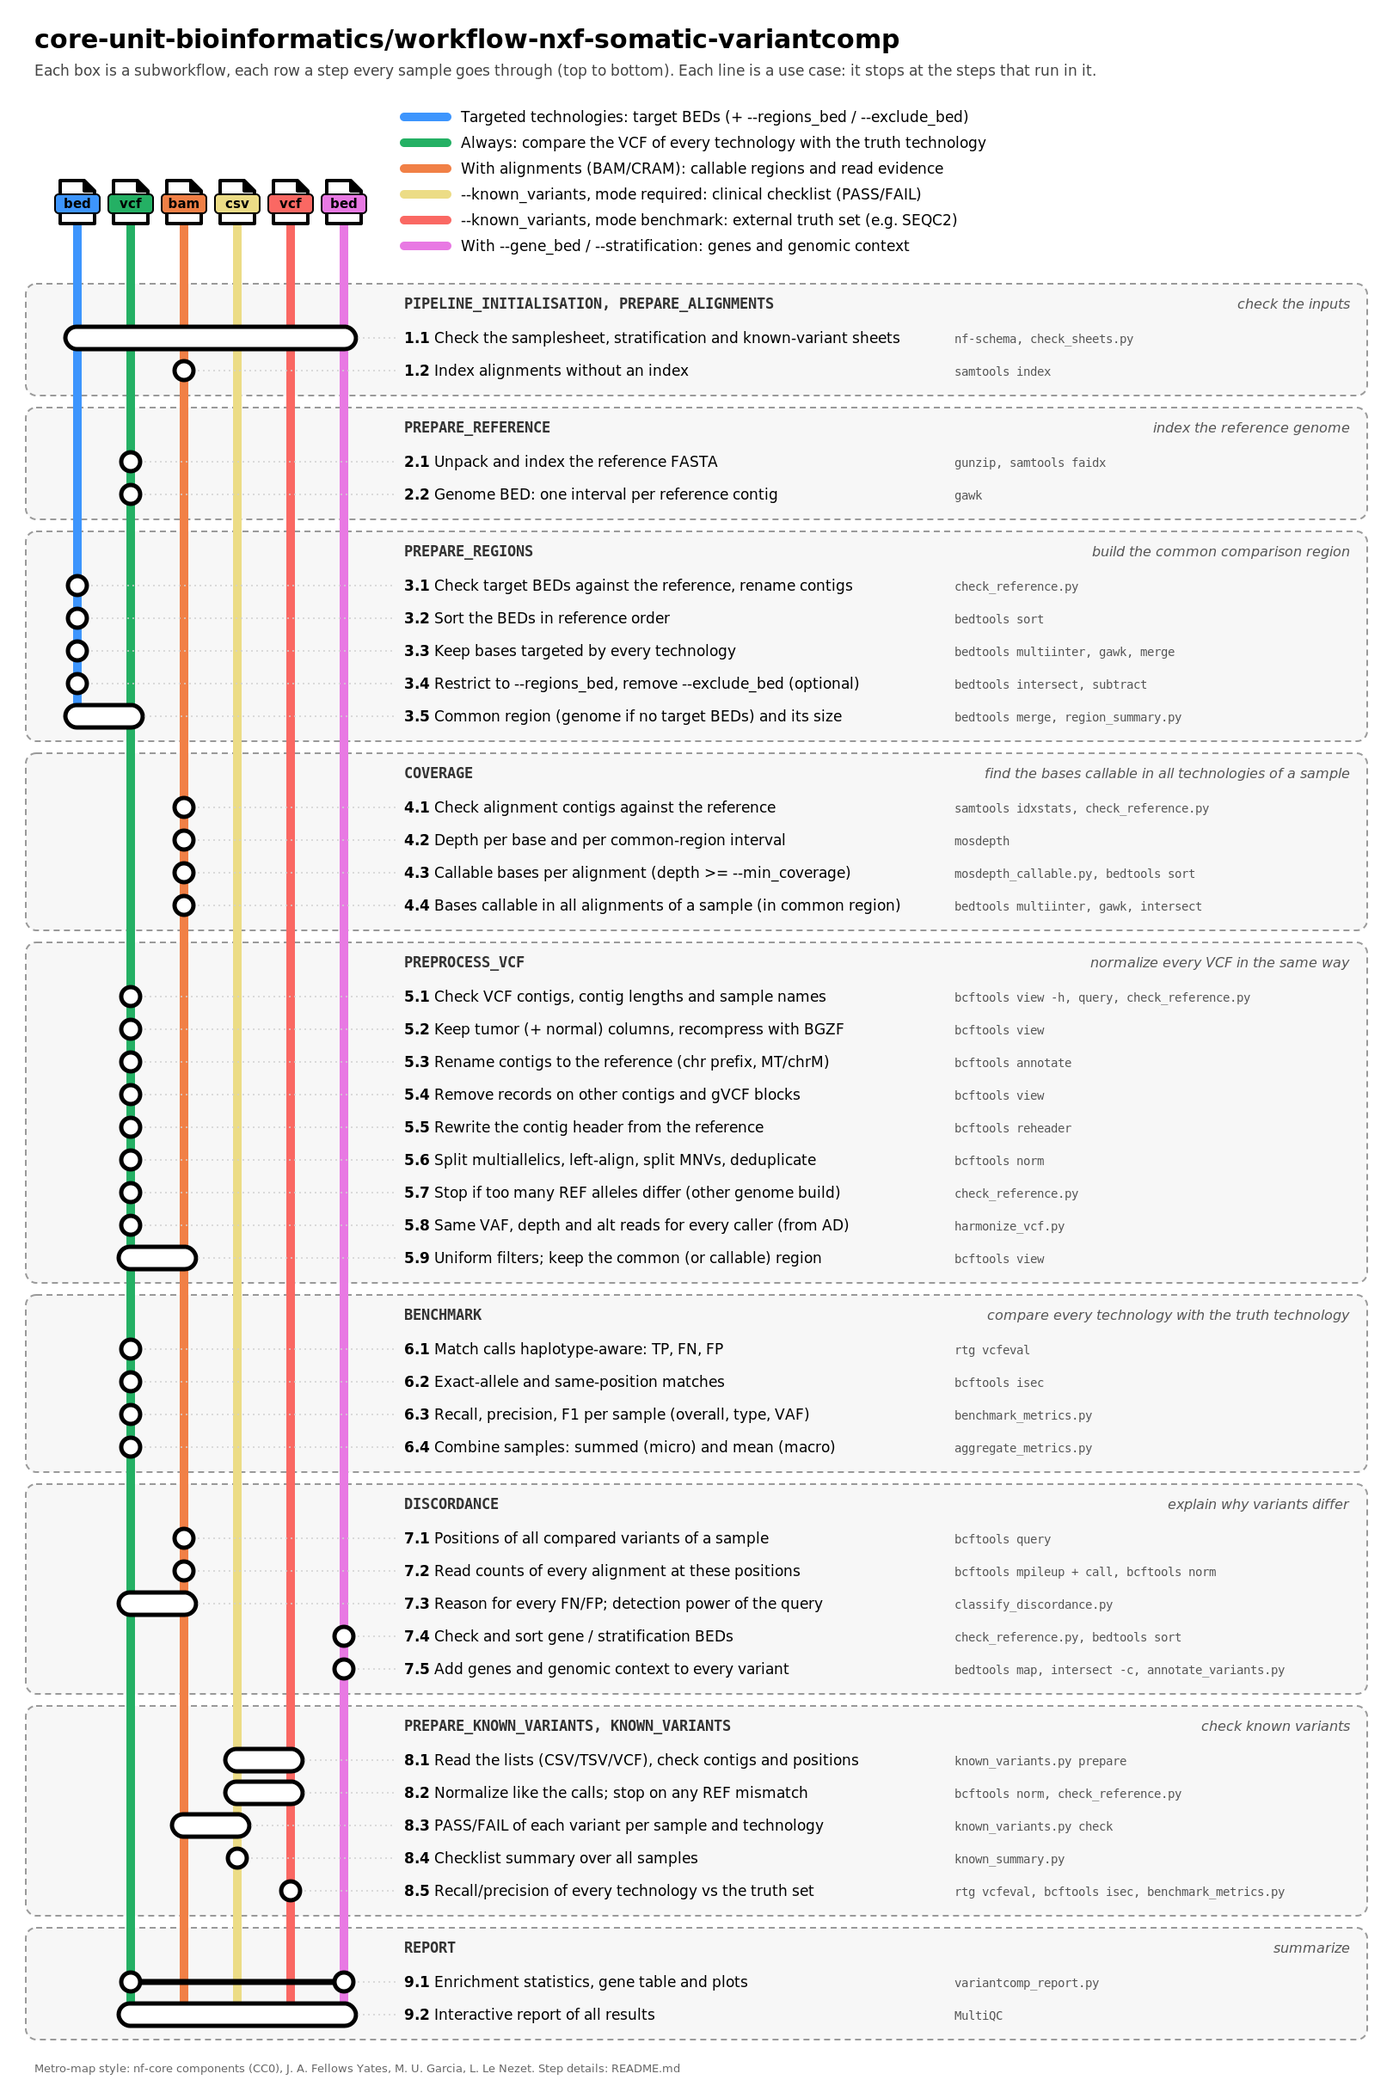
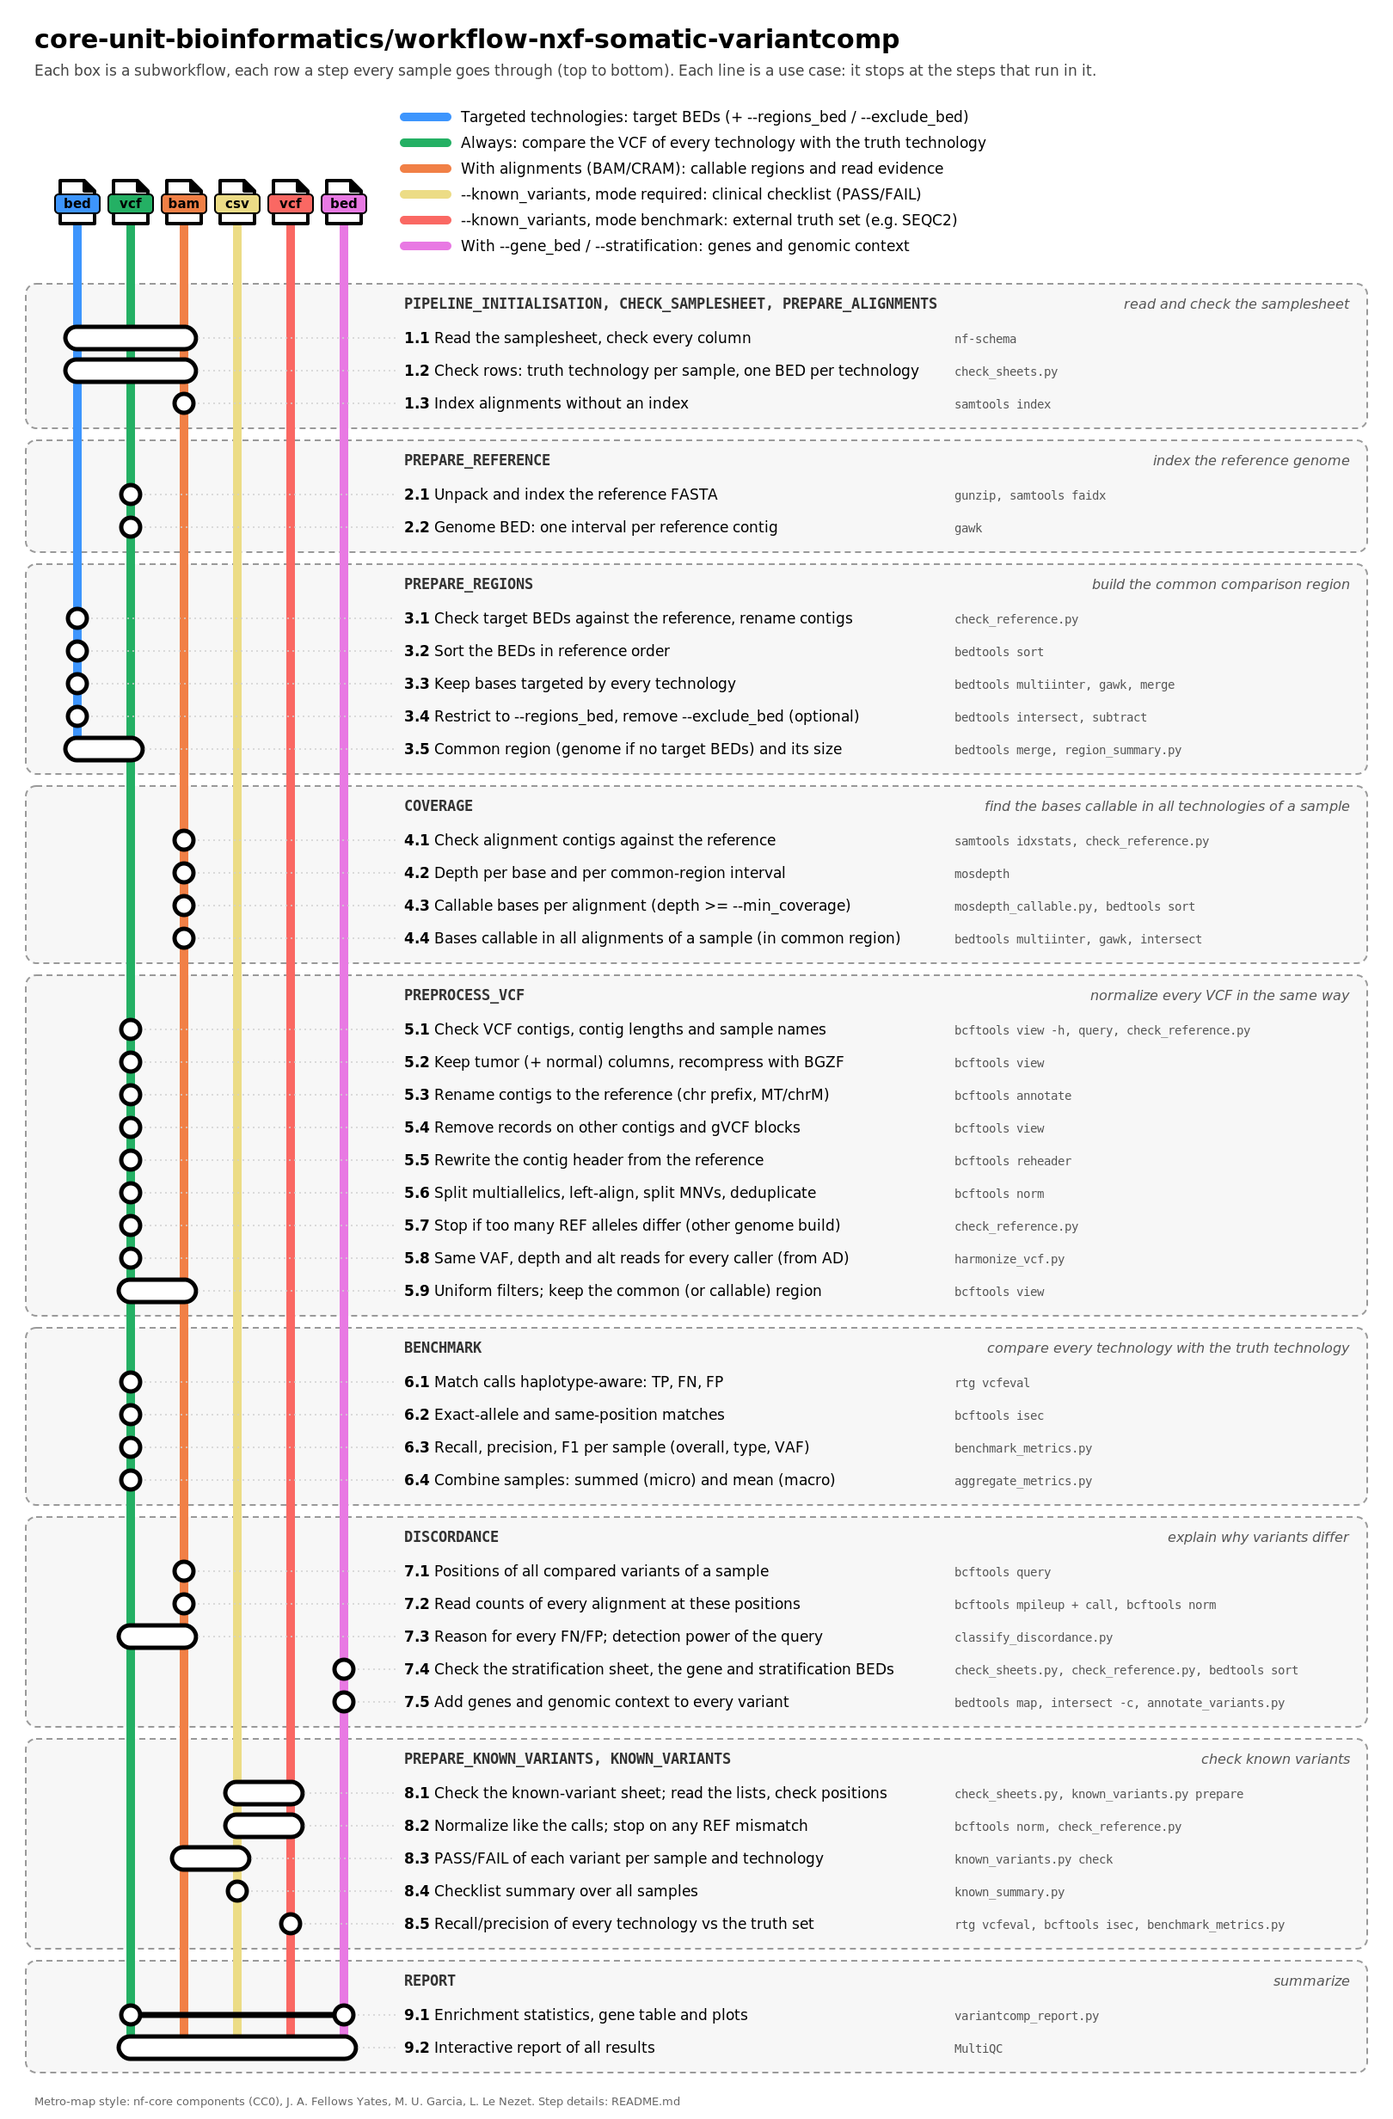
Document where the sheets are checked (D22)

diff --git a/scripts/make_metro_map.py b/scripts/make_metro_map.py
@@ -42,10 +42,11 @@ ALL = list(LINES)
 # subworkflow boxes: (subworkflow name(s), purpose, steps)
 # step: (number, what happens, tools, lines that run this step)
 BANDS = [
-    ("PIPELINE_INITIALISATION, PREPARE_ALIGNMENTS", "check the inputs", [
-        ("1.1", "Check the samplesheet, stratification and known-variant sheets",
-         "nf-schema, check_sheets.py", ALL),
-        ("1.2", "Index alignments without an index", "samtools index", ["bam"]),
+    ("PIPELINE_INITIALISATION, CHECK_SAMPLESHEET, PREPARE_ALIGNMENTS", "read and check the samplesheet", [
+        ("1.1", "Read the samplesheet, check every column", "nf-schema", ["regions", "core", "bam"]),
+        ("1.2", "Check rows: truth technology per sample, one BED per technology",
+         "check_sheets.py", ["regions", "core", "bam"]),
+        ("1.3", "Index alignments without an index", "samtools index", ["bam"]),
     ]),
     ("PREPARE_REFERENCE", "index the reference genome", [
         ("2.1", "Unpack and index the reference FASTA", "gunzip, samtools faidx", ["core"]),
@@ -92,13 +93,14 @@ BANDS = [
          "bcftools mpileup + call, bcftools norm", ["bam"]),
         ("7.3", "Reason for every FN/FP; detection power of the query",
          "classify_discordance.py", ["core", "bam"]),
-        ("7.4", "Check and sort gene / stratification BEDs", "check_reference.py, bedtools sort", ["annot"]),
+        ("7.4", "Check the stratification sheet, the gene and stratification BEDs",
+         "check_sheets.py, check_reference.py, bedtools sort", ["annot"]),
         ("7.5", "Add genes and genomic context to every variant",
          "bedtools map, intersect -c, annotate_variants.py", ["annot"]),
     ]),
     ("PREPARE_KNOWN_VARIANTS, KNOWN_VARIANTS", "check known variants", [
-        ("8.1", "Read the lists (CSV/TSV/VCF), check contigs and positions",
-         "known_variants.py prepare", ["required", "truthset"]),
+        ("8.1", "Check the known-variant sheet; read the lists, check positions",
+         "check_sheets.py, known_variants.py prepare", ["required", "truthset"]),
         ("8.2", "Normalize like the calls; stop on any REF mismatch",
          "bcftools norm, check_reference.py", ["required", "truthset"]),
         ("8.3", "PASS/FAIL of each variant per sample and technology",
@@ -115,8 +117,9 @@ BANDS = [
 
 # longer explanation of every step for the README table (the map shows the short text)
 DETAILS = {
-    "1.1": "Checks the per-column formats (nf-schema) and the rows across the sheet: one truth technology per sample, one target BED and library type per technology, existing files. All problems are reported at once with line numbers; VCF and alignment indices are looked up next to the files.",
-    "1.2": "Alignments without a `.bai`/`.csi`/`.crai` next to them are indexed once; they are needed for coverage and read evidence.",
+    "1.1": "The samplesheet is read as in the nf-core template: nf-schema checks every column (names, library types, file extensions). Relative paths are resolved against the samplesheet's directory; VCF and alignment indices are looked up next to the files.",
+    "1.2": "Rules across rows, before anything else runs: every sample has the truth technology and another technology, no duplicate rows, one target BED and library type per technology, existing files. All problems are reported at once with line numbers.",
+    "1.3": "Alignments without a `.bai`/`.csi`/`.crai` next to them are indexed once; they are needed for coverage and read evidence.",
     "2.1": "A gzipped FASTA is unpacked and indexed; the `.fai` (contig names and lengths) is the reference every input is checked against.",
     "2.2": "One interval per contig, used as comparison region when no technology has a target BED (WGS only) and to drop records on other contigs.",
     "3.1": "Contig names that differ only by the `chr` prefix or `MT`/`chrM` are renamed, intervals on unknown contigs are dropped and reported; intervals beyond a contig end stop the run (other genome build).",
@@ -144,9 +147,9 @@ DETAILS = {
     "7.1": "All positions of compared variants of a sample are collected, so every alignment is looked at the same sites.",
     "7.2": "Allele counts of every tumor and normal alignment at these positions (MQ >= 20, BQ >= 13), normalized like the calls.",
     "7.3": "Each FN/FP gets a reason from the other technology's view: called but filtered, germline (alt reads in the normal), low coverage, alt reads below the caller's threshold, no alt reads, or absent (no alignment). For truth variants, the binomial detection power of the query gives the power-adjusted recall.",
-    "7.4": "Gene and stratification BEDs (repeats, homopolymers, ...) are checked against the reference and sorted.",
+    "7.4": "The `--stratification` sheet is checked (columns, unique names, existing BEDs); gene and stratification BEDs (repeats, homopolymers, ...) are checked against the reference and sorted.",
     "7.5": "Every compared variant gets its gene(s) and a yes/no per stratification; result: `discordance/variants.annotated.tsv`.",
-    "8.1": "Known variants from CSV, TSV or VCF lists are mapped to reference contigs, positions and alleles checked, and written as a sorted VCF.",
+    "8.1": "The `--known_variants` sheet is checked (columns, unique names, modes, samples of the samplesheet, existing files). Known variants from CSV, TSV or VCF lists are mapped to reference contigs, positions and alleles checked, and written as a sorted VCF.",
     "8.2": "The list is normalized like the calls (split, left-align, atomize); any REF allele that differs from the FASTA stops the run.",
     "8.3": "Required mode: each listed variant must be found in every technology of the sample: PASS, or FAIL as filtered, outside the comparison region or not called (with read evidence if alignments are given).",
     "8.4": "Required mode: one table over all lists, samples and technologies, a warning per failed variant, and optionally a stop (`--fail_on_missing_required`).",

diff --git a/README.md b/README.md
@@ -52,9 +52,10 @@ every step are set in `conf/modules.config`.
 <!-- steps:start (generated: scripts/make_metro_map.py --markdown) -->
 | Step | What happens | Tools | Runs for |
 | --- | --- | --- | --- |
-| **PIPELINE_INITIALISATION, PREPARE_ALIGNMENTS** | _check the inputs_ | | |
-| 1.1 | **Check the samplesheet, stratification and known-variant sheets.** Checks the per-column formats (nf-schema) and the rows across the sheet: one truth technology per sample, one target BED and library type per technology, existing files. All problems are reported at once with line numbers; VCF and alignment indices are looked up next to the files. | `nf-schema, check_sheets.py` | all use cases |
-| 1.2 | **Index alignments without an index.** Alignments without a `.bai`/`.csi`/`.crai` next to them are indexed once; they are needed for coverage and read evidence. | `samtools index` | With alignments (BAM/CRAM) |
+| **PIPELINE_INITIALISATION, CHECK_SAMPLESHEET, PREPARE_ALIGNMENTS** | _read and check the samplesheet_ | | |
+| 1.1 | **Read the samplesheet, check every column.** The samplesheet is read as in the nf-core template: nf-schema checks every column (names, library types, file extensions). Relative paths are resolved against the samplesheet's directory; VCF and alignment indices are looked up next to the files. | `nf-schema` | Targeted technologies, Always, With alignments (BAM/CRAM) |
+| 1.2 | **Check rows: truth technology per sample, one BED per technology.** Rules across rows, before anything else runs: every sample has the truth technology and another technology, no duplicate rows, one target BED and library type per technology, existing files. All problems are reported at once with line numbers. | `check_sheets.py` | Targeted technologies, Always, With alignments (BAM/CRAM) |
+| 1.3 | **Index alignments without an index.** Alignments without a `.bai`/`.csi`/`.crai` next to them are indexed once; they are needed for coverage and read evidence. | `samtools index` | With alignments (BAM/CRAM) |
 | **PREPARE_REFERENCE** | _index the reference genome_ | | |
 | 2.1 | **Unpack and index the reference FASTA.** A gzipped FASTA is unpacked and indexed; the `.fai` (contig names and lengths) is the reference every input is checked against. | `gunzip, samtools faidx` | Always |
 | 2.2 | **Genome BED: one interval per reference contig.** One interval per contig, used as comparison region when no technology has a target BED (WGS only) and to drop records on other contigs. | `gawk` | Always |
@@ -88,10 +89,10 @@ every step are set in `conf/modules.config`.
 | 7.1 | **Positions of all compared variants of a sample.** All positions of compared variants of a sample are collected, so every alignment is looked at the same sites. | `bcftools query` | With alignments (BAM/CRAM) |
 | 7.2 | **Read counts of every alignment at these positions.** Allele counts of every tumor and normal alignment at these positions (MQ >= 20, BQ >= 13), normalized like the calls. | `bcftools mpileup + call, bcftools norm` | With alignments (BAM/CRAM) |
 | 7.3 | **Reason for every FN/FP; detection power of the query.** Each FN/FP gets a reason from the other technology's view: called but filtered, germline (alt reads in the normal), low coverage, alt reads below the caller's threshold, no alt reads, or absent (no alignment). For truth variants, the binomial detection power of the query gives the power-adjusted recall. | `classify_discordance.py` | Always, With alignments (BAM/CRAM) |
-| 7.4 | **Check and sort gene / stratification BEDs.** Gene and stratification BEDs (repeats, homopolymers, ...) are checked against the reference and sorted. | `check_reference.py, bedtools sort` | With --gene_bed / --stratification |
+| 7.4 | **Check the stratification sheet, the gene and stratification BEDs.** The `--stratification` sheet is checked (columns, unique names, existing BEDs); gene and stratification BEDs (repeats, homopolymers, ...) are checked against the reference and sorted. | `check_sheets.py, check_reference.py, bedtools sort` | With --gene_bed / --stratification |
 | 7.5 | **Add genes and genomic context to every variant.** Every compared variant gets its gene(s) and a yes/no per stratification; result: `discordance/variants.annotated.tsv`. | `bedtools map, intersect -c, annotate_variants.py` | With --gene_bed / --stratification |
 | **PREPARE_KNOWN_VARIANTS, KNOWN_VARIANTS** | _check known variants_ | | |
-| 8.1 | **Read the lists (CSV/TSV/VCF), check contigs and positions.** Known variants from CSV, TSV or VCF lists are mapped to reference contigs, positions and alleles checked, and written as a sorted VCF. | `known_variants.py prepare` | --known_variants, mode required, --known_variants, mode benchmark |
+| 8.1 | **Check the known-variant sheet; read the lists, check positions.** The `--known_variants` sheet is checked (columns, unique names, modes, samples of the samplesheet, existing files). Known variants from CSV, TSV or VCF lists are mapped to reference contigs, positions and alleles checked, and written as a sorted VCF. | `check_sheets.py, known_variants.py prepare` | --known_variants, mode required, --known_variants, mode benchmark |
 | 8.2 | **Normalize like the calls; stop on any REF mismatch.** The list is normalized like the calls (split, left-align, atomize); any REF allele that differs from the FASTA stops the run. | `bcftools norm, check_reference.py` | --known_variants, mode required, --known_variants, mode benchmark |
 | 8.3 | **PASS/FAIL of each variant per sample and technology.** Required mode: each listed variant must be found in every technology of the sample: PASS, or FAIL as filtered, outside the comparison region or not called (with read evidence if alignments are given). | `known_variants.py check` | With alignments (BAM/CRAM), --known_variants, mode required |
 | 8.4 | **Checklist summary over all samples.** Required mode: one table over all lists, samples and technologies, a warning per failed variant, and optionally a stop (`--fail_on_missing_required`). | `known_summary.py` | --known_variants, mode required |

diff --git a/docs/pipeline-plan.md b/docs/pipeline-plan.md
@@ -370,6 +370,7 @@ vcf-comp-dev/                                  # workspace (no git)
 | D19 | REF check tool (implementation of D17, 2026-10-08) | REF alleles are checked with `bcftools norm --check-ref x` (its log is emitted by the patched nf-core module and evaluated by `check_reference.py ref-alleles`), not with `bcftools +fixref`: `+fixref` only handles biallelic SNVs. |
 | D20 | Position-only match (implementation, 2026-10-08) | The `match`/`position` stratum counts positions: `bcftools isec -c all` still lists an extra allele at a shared position separately, its flags are combined per position. |
 | D21 | Missing VAF (implementation of D16, 2026-10-08) | Every tumor record needs a VAF (FORMAT/AD, else FORMAT/AF + FORMAT/DP); otherwise the run stops. The allowed fraction is configurable (`HARMONIZE_VCF` `--max-missing-vaf`, default 0). Records with AD 0,0 (no reads) have an undefined VAF (`zero_depth`, counted and warned, not an error); `FORMAT/AF = nan` counts as missing AF. Both occur in the SEQC2 MuTect2 3.8 VCFs. |
+| D22 | Sheet reading (user, 2026-10-13) | The samplesheet is read as in the nf-core template (`samplesheetToList` in `PIPELINE_INITIALISATION`, columns checked by nf-schema); the checks across rows run in `CHECK_SAMPLESHEET` (`check_sheets.py`) at the start of `VARIANTCOMP`. `--stratification` and `--known_variants` are plain file parameters, checked by `check_sheets.py` in the subworkflow that uses them (`DISCORDANCE`, `PREPARE_KNOWN_VARIANTS`). |
 | – | Open (2026-10-08) | The discordance class `outside_callable` can't occur, because both technologies of a sample share the comparison region; such calls are `present_but_filtered`. To discuss: drop the class or define it differently (e.g. call outside the *query* technology's own callable region). |
 | D13 | Callers (implementation, 2026-10-08) | No caller profiles are needed (D10): the `caller` samplesheet column is informational. |
 | D11 | Normalization order (implementation, 2026-10-07) | Records on non-reference contigs are dropped before the header is rewritten from the `.fai`. Records with a symbolic ALT only are dropped before `norm`, and remaining symbolic alleles of split records are dropped during harmonization. See CLAUDE.md for the full order. |

diff --git a/docs/usage.md b/docs/usage.md
@@ -45,7 +45,10 @@ P01,panel,amplicon,P01_T,P01_N,dragen-4.4.4,vcf/P01_panel.hard-filtered.vcf.gz,n
 | BAM | `<bam>.bai`, `<bam>.csi`, `<name>.bai` (`x.bam` → `x.bai`) | created with `samtools index` |
 | CRAM | `<cram>.crai`, `<name>.crai` | created with `samtools index` |
 
-Rules (checked by `bin/check_sheets.py`; all problems are reported at once):
+The samplesheet is read as in the nf-core template: nf-schema checks every column
+(`assets/schema_input.json`) when the pipeline starts. The rules across rows are then
+checked by `bin/check_sheets.py` (module `CHECK_SAMPLESHEET`, first step of the workflow;
+all problems are reported at once, nothing else starts before it passed):
 
 - Empty optional fields are left empty or written as `n/a`.
 - Relative paths are resolved against the directory of the samplesheet, so a project
@@ -232,6 +235,12 @@ seqc2_truth,all,benchmark,truth/sSNV.vcf.gz;truth/sINDEL.vcf.gz,truth/High-Confi
 | `mode` | `required` or `benchmark` (see below). |
 | `variants` | One or more VCF, CSV or TSV files separated by `;`. CSV/TSV columns: `chrom`, `pos` (1-based), `ref`, `alt`, optional `gene`, `label`, `vaf`. |
 | `regions` | Optional BED (`n/a` if none), e.g. the confident regions of a truth set. |
+
+`--stratification` and `--known_variants` are plain file parameters. Each sheet is checked
+by `bin/check_sheets.py` in the subworkflow that uses it (`DISCORDANCE`,
+`PREPARE_KNOWN_VARIANTS`): required columns, unique names, allowed modes, samples that
+exist in the samplesheet, existing files with the right extensions. All problems are
+reported at once; the checked sheets are written to `pipeline_info/*.validated.csv`.
 
 Every list is checked against the reference (contig names are renamed if needed; a REF
 mismatch is an error) and normalized like the VCFs.

diff --git a/docs/output.md b/docs/output.md
@@ -280,7 +280,8 @@ Results generated by MultiQC collate pipeline QC from supported tools e.g. FastQ
 
 - `pipeline_info/`
   - Reports generated by Nextflow: `execution_report.html`, `execution_timeline.html`, `execution_trace.txt` and `pipeline_dag.dot`/`pipeline_dag.svg`.
-  - Validated samplesheet with resolved paths: `samplesheet.validated.csv`.
+  - Checked sheets with resolved paths: `samplesheet.validated.csv` and, if given,
+    `stratification.validated.csv` and `known.validated.csv`.
   - Parameters used by the pipeline run: `params.json`.
 
 </details>
